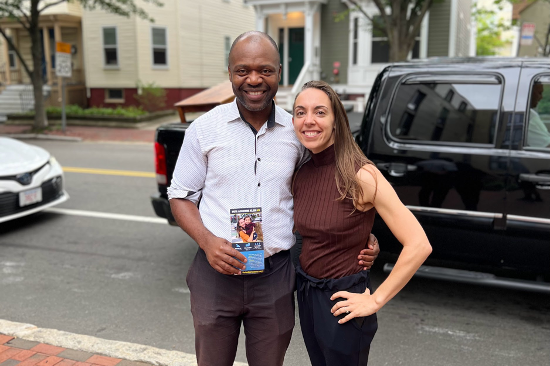
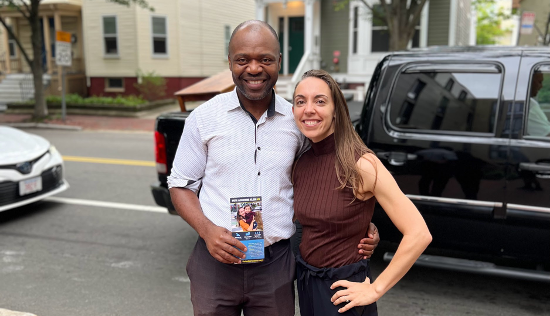
Crop Dennis Carlone and Will Mbah endorsement pictures so they have similar dimensions

diff --git a/endorsements.html b/endorsements.html
@@ -56,24 +56,24 @@
             </header>
             <section class="wrapper style5">
                 <div class="inner">
-                <section>
-                <br />
-                <br />
-                    <div class="box alt">
-                        <div class="row gtr-50 gtr-uniform">
-                            <!-- <div class="col-12"><span class="image fit"><img src="images/banner.jpg" alt="" /></span></div> -->
-                            <div class="col-4"><span class="image fit"><a href="https://www.cambridgebikesafety.org/election/" target="_blank"><img src="images/bicycle_safety.png" alt="The Cambridge Bicycle Safety Organization Logo" /></a></span></div>
-                            <div class="col-4"><span class="image fit"><a href="https://www.abettercambridge.org/" target="_blank"><img src="images/aBetterCambridgeLogo.jpeg" alt="The logo for the A Better Cambridge Organization" /></a></span></div>
-                            <div class="col-4"><span class="image fit"><a href="https://runforsomething.net/" target="_blank"></a><img src="images/RunForSomethingLogo.jpg" alt="The Run for Something Organization Logo" /></span></div>
-                            <!-- <div class="col-4"><span class="image fit"><img src="images/pic03.jpg" alt="" /></span></div>
-                                                <div class="col-4"><span class="image fit"><img src="images/pic02.jpg" alt="" /></span></div>
-                                                <div class="col-4"><span class="image fit"><img src="images/pic01.jpg" alt="" /></span></div>
-                                                <div class="col-4"><span class="image fit"><img src="images/pic02.jpg" alt="" /></span></div>
-                                                <div class="col-4"><span class="image fit"><img src="images/pic01.jpg" alt="" /></span></div>
-                                                <div class="col-4"><span class="image fit"><img src="images/pic03.jpg" alt="" /></span></div> -->
+                    <section>
+                        <br />
+                        <br />
+                        <div class="box alt">
+                            <div class="row gtr-50 gtr-uniform">
+                                <!-- <div class="col-12"><span class="image fit"><img src="images/banner.jpg" alt="" /></span></div> -->
+                                <div class="col-4"><span class="image fit"><a href="https://www.cambridgebikesafety.org/election/" target="_blank"><img src="images/bicycle_safety.png" alt="The Cambridge Bicycle Safety Organization Logo" /></a></span></div>
+                                <div class="col-4"><span class="image fit"><a href="https://www.abettercambridge.org/" target="_blank"><img src="images/aBetterCambridgeLogo.jpeg" alt="The logo for the A Better Cambridge Organization" /></a></span></div>
+                                <div class="col-4"><span class="image fit"><a href="https://runforsomething.net/" target="_blank"><img src="images/RunForSomethingLogo.jpg" alt="The Run for Something Organization Logo" /></a></span></div>
+                                <!-- <div class="col-4"><span class="image fit"><img src="images/pic03.jpg" alt="" /></span></div>
+                                                    <div class="col-4"><span class="image fit"><img src="images/pic02.jpg" alt="" /></span></div>
+                                                    <div class="col-4"><span class="image fit"><img src="images/pic01.jpg" alt="" /></span></div>
+                                                    <div class="col-4"><span class="image fit"><img src="images/pic02.jpg" alt="" /></span></div>
+                                                    <div class="col-4"><span class="image fit"><img src="images/pic01.jpg" alt="" /></span></div>
+                                                    <div class="col-4"><span class="image fit"><img src="images/pic03.jpg" alt="" /></span></div> -->
+                            </div>
                         </div>
-                    </div>
-                </section>
+                    </section>
                     <!-- <section>
                         <h4>Cambridge Bicycle Safety</h4>
                         <p>
